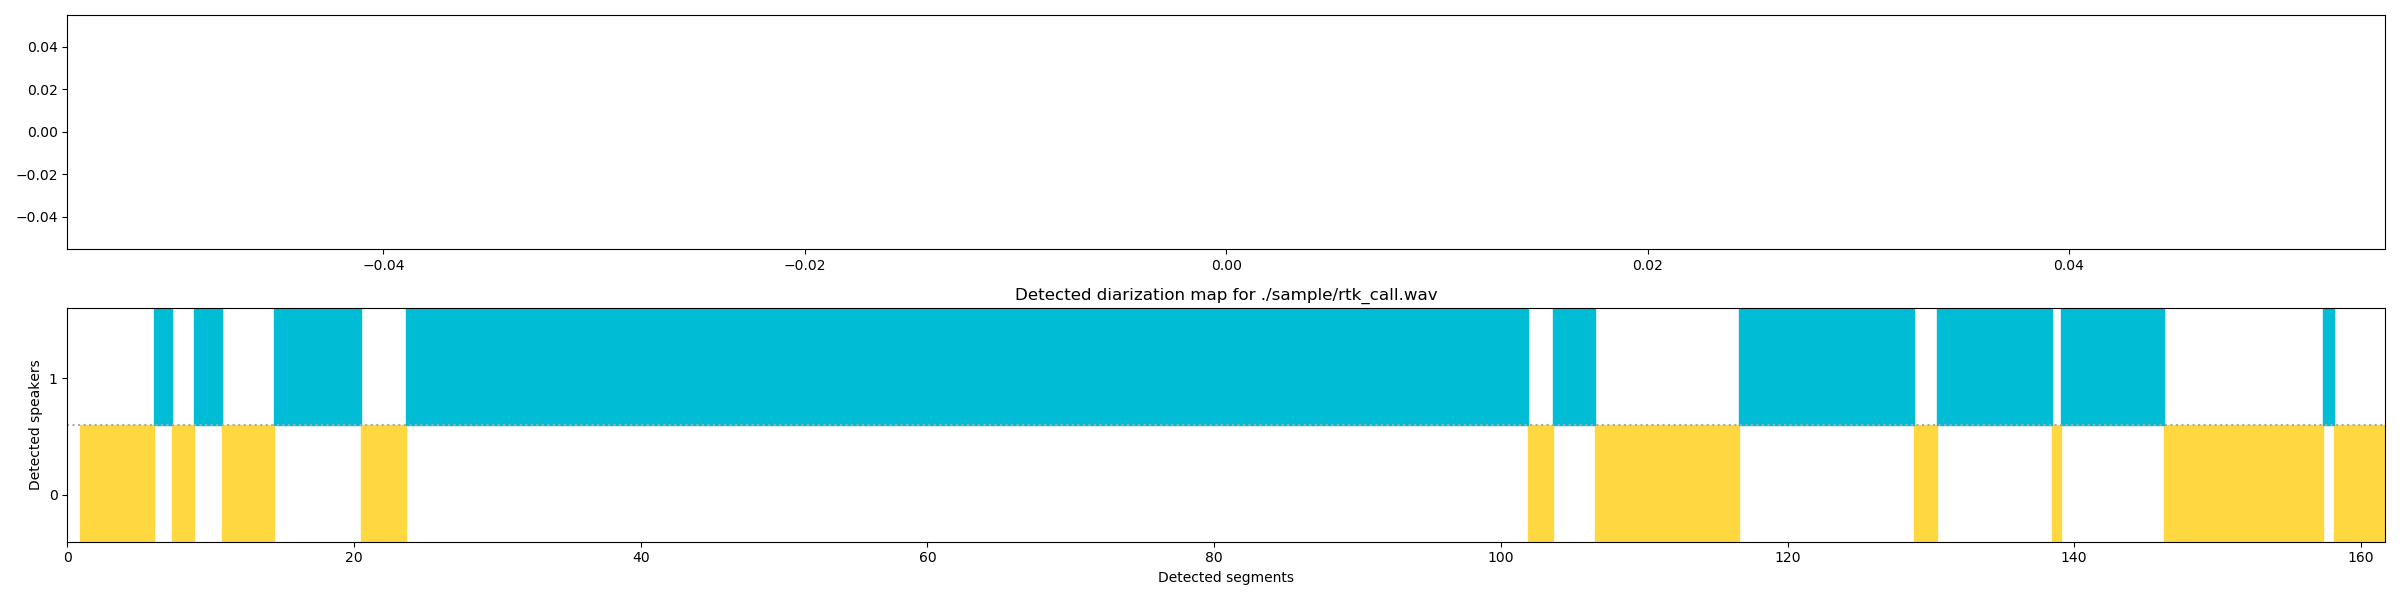
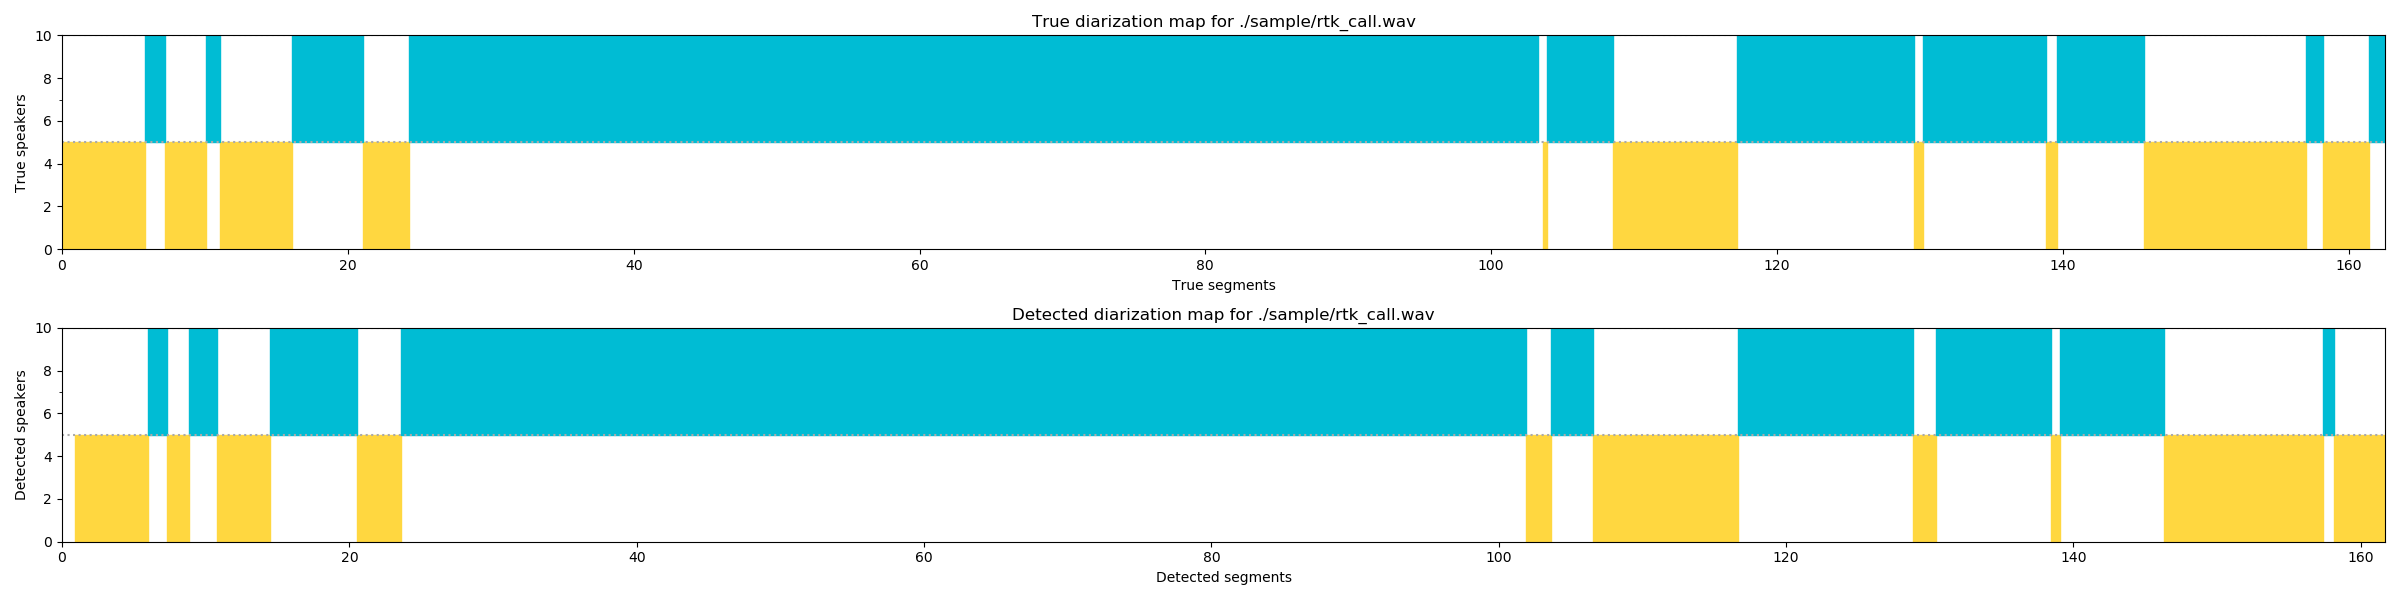
Fix reading true map

diff --git a/diarization/viewer.py b/diarization/viewer.py
@@ -51,18 +51,15 @@ class PlotDiar:
         self.end_play = 0
 
     def draw_true_map(self):
+        self._draw_info(self.true_ax, 'True segments', 'True speakers', f'True diarization map for {self.wav}')
         self._draw_segments(self.true_ax, self.true_map, self.true_timestamps)
-        if self.gui:
-            self._draw_info(self.true_ax, 'True segments', 'True speakers',
-                            f'True diarization map for {self.wav}')
 
     def draw_map(self):
         self._draw_segments(self.ax, self.map, self.timestamps)
-        if self.gui:
-            self._draw_info(self.ax, 'Detected segments', 'Detected speakers',
-                            f'Detected diarization map for {self.wav}')
+        self._draw_info(self.ax, 'Detected segments', 'Detected speakers', f'Detected diarization map for {self.wav}')
 
     def show(self):
+        self.plt.tight_layout()
         self.plt.show()
 
     def _draw_info(self, ax, xlabel, ylabel, title):
@@ -102,8 +99,8 @@ class PlotDiar:
         else:
             ax.set_xlim([0, self.max_x])
 
-        self.plt.ylim([0, y])
-        self.plt.yticks(labels_position, labels)
+        ax.set_ylim([0, y])
+        ax.set_yticks(labels_position, labels)
         self.max_y = y
         self.end_play = self.max_x
 
@@ -111,7 +108,6 @@ class PlotDiar:
             ax.plot([0, self.max_x], [y, y], linestyle=':', color='#AAAAAA')
             y -= self.height
 
-        self.plt.tight_layout()
         timestamps = list(set(self.timestamps)).sort()
 
         return timestamps

diff --git a/diarization/diarization.py b/diarization/diarization.py
@@ -102,8 +102,8 @@ def read_true_map(path):
                 dt_start = datetime.strptime(start, '%M:%S.%f')
                 dt_stop = datetime.strptime(stop, '%M:%S.%f')
 
-                start = dt_start.second * 1000 + dt_start.microsecond / 1000
-                stop = dt_stop.second * 1000 + dt_stop.microsecond / 1000
+                start = dt_start.minute * 60_000 + dt_start.second * 1000 + dt_start.microsecond / 1000
+                stop = dt_stop.minute * 60_000 + dt_stop.second * 1000 + dt_stop.microsecond / 1000
 
                 true_map[spk_number].append({'start': start, 'stop': stop})
 
@@ -240,7 +240,7 @@ def main(wav_path, embedding_per_second=1.0, overlap_rate=0.5):
     true_map = read_true_map('./sample/true.txt')
 
     p = PlotDiar(map=speaker_slice, true_map=true_map, wav=wav_path, gui=True, size=(24, 6))
-    # p.draw_true_map() Содержит баги, которые я сейчас фиксю
+    p.draw_true_map()
     p.draw_map()
     p.show()
 

diff --git a/diarization/README.md b/diarization/README.md
@@ -7,6 +7,8 @@
 значения `eps` и `min_samples`. Также возможны вариации с применением `UMAP`, до того, как кластеризовать полученные
 эмбеддинги.
 
+В текущей версии используется HDBSCAN с предварительным понижением размерности алгоритмом UMAP.
+
 ## Структура модуля
 ```
  |---pre_trained
@@ -19,7 +21,6 @@
  |---backbone.py
  |---diarization.py
  |---model.py
- |---player.py
  |---README.md
  |---toolkits.py
  |---utils.py
@@ -30,16 +31,33 @@
 Основные скрипты:
 * `diarization.py`. Главный скрипт, который проводит сегментацию.
 * `utils.py`. Содержит некоторые вспомогательные функции, например dbscan, hdbscan, визуалиацию в TensorBoard.
+
+Настоятельно рекомендую размечать тестируемые записи руками, для сравнения реального разбиения с полученным.
+Формат, файла `true.txt` с исходной разметкой следующий:
+```
+01:48.528 01:57.231
+02:09.6 02:10.235
+...
+
+00:24.256 01:43.289
+01:43.887 01:48.528
+...
+```
+
+Файл состоит из блоков, вообще говоря разной длины. Т.е. сначала идет блок всех сегментов первого спикера, затем второго
+и т.д. Блоки разделены между собой пустой строкой, что означает переход к следующему спикеру.
+
+Формат каждого таймстемпа имеет вид `%M:%S.%ms`. Ведущий нуль в минутах и секундах разрешено не ставить.
  
-# Результат
+## Результат
 Для примера была вложена запись разговора из Ростелекома. После сегментации получим следующий вывод.
 
 <div align="center">
     <img src="./assets/rtk_call_plot.png">
 </div>
 
-Верхний пустой график служит для отображение настоящей разметки. В настоящее время эта функция багованная, я работаю над
-ее нормальным функционированием. Нижний показывает сегментированную запись (подписи в помощь).
+Верхний пустой график служит для отображение настоящей разметки. Нижний показывает сегментированную запись (подписи в
+помощь).
 
 В консоли отобразятся полученные таймстемпы.
 ```
